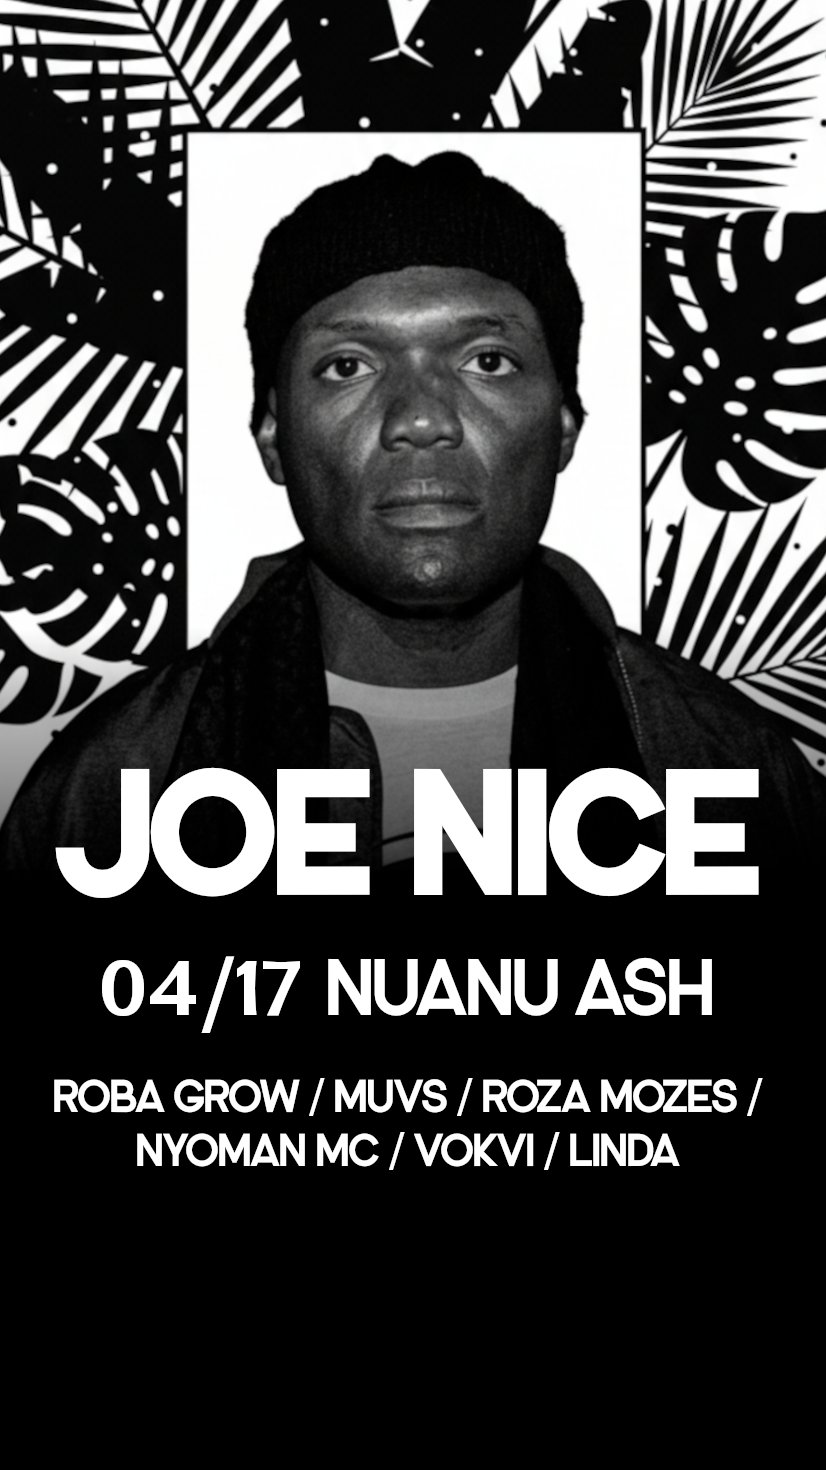
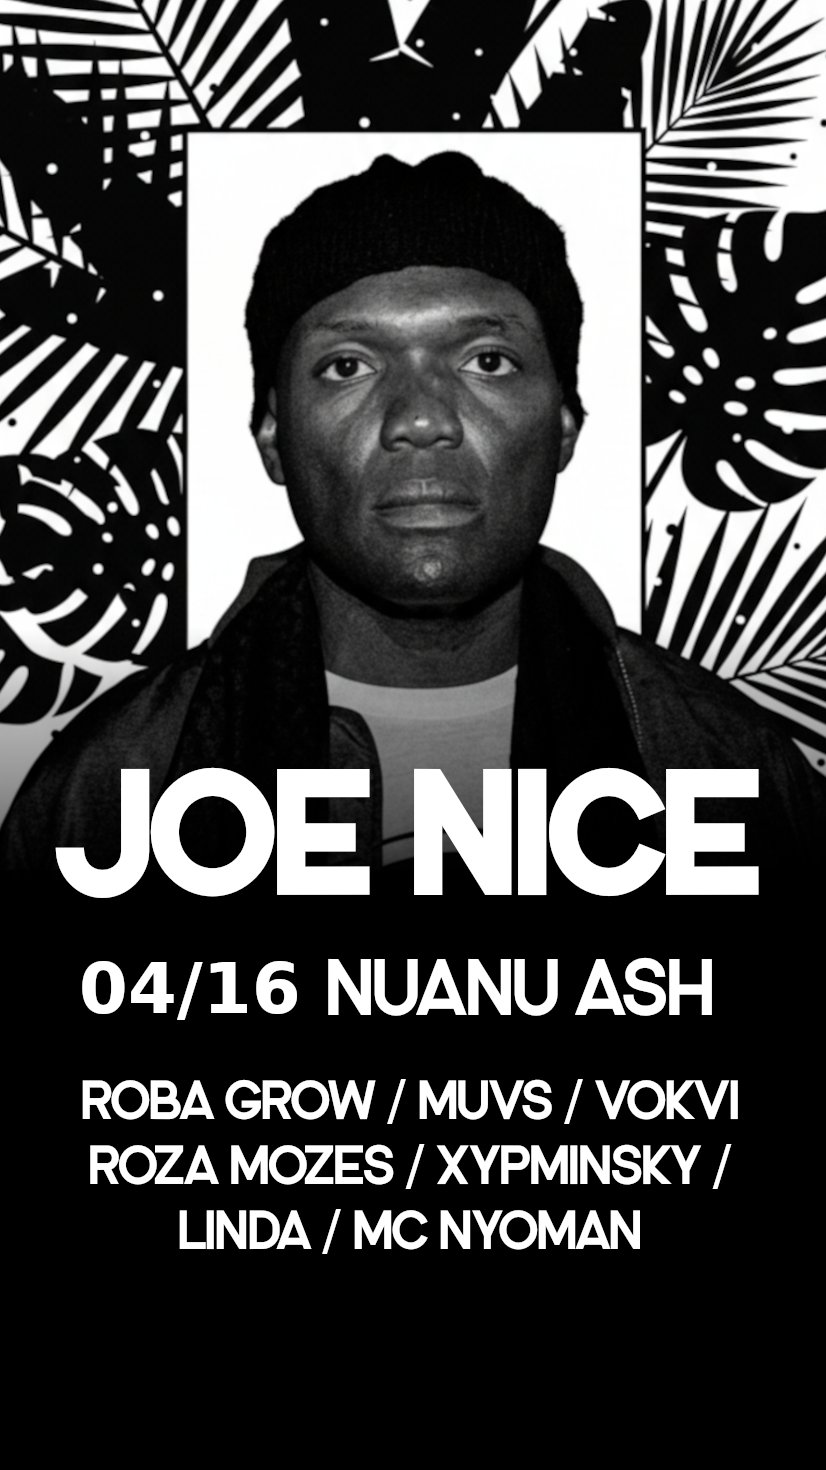
Update event to April 16, add Xypminsky, link Megatix tickets
- Date changed from April 17 to April 16
- Added Xypminsky to lineup
- Ticket links now point to megatix.co.id/events/basstatic-joe-nice
- Updated poster banner
- Updated all OG/meta tags and descriptions

Changed region(s): [[0.0605, 0.7347, 0.9383, 0.8571], [0.0908, 0.6429, 0.3632, 0.7041]]

diff --git a/index.html b/index.html
@@ -3,20 +3,20 @@
 <head>
   <meta charset="UTF-8">
   <meta name="viewport" content="width=device-width, initial-scale=1.0">
-  <title>BASSTATIC x JOE NICE — 17 April 2026, Nuanu Bali</title>
-  <meta name="description" content="BASSTATIC x JOE NICE — The Godfather of American Dubstep live in Bali. April 17, 2026 at Ash, Nuanu. Deep dubstep &amp; 140 with Joe Nice, Roba Grow, Muvs, Roza Mozes, Vokvi, Linda and MC Nyoman.">
+  <title>BASSTATIC x JOE NICE — 16 April 2026, Nuanu Bali</title>
+  <meta name="description" content="BASSTATIC x JOE NICE — The Godfather of American Dubstep live in Bali. April 17, 2026 at Ash, Nuanu. Deep dubstep &amp; 140 with Joe Nice, Roba Grow, Muvs, Roza Mozes, Vokvi, Xypminsky, Linda and MC Nyoman.">
 
   <!-- Open Graph -->
   <meta property="og:type" content="website">
-  <meta property="og:title" content="BASSTATIC x JOE NICE — 17 April 2026, Nuanu Bali">
-  <meta property="og:description" content="The Godfather of American Dubstep live in Bali. Deep dubstep & 140 with Joe Nice, Roba Grow, Muvs, Roza Mozes, Vokvi, Linda and MC Nyoman. April 17 at Ash, Nuanu.">
+  <meta property="og:title" content="BASSTATIC x JOE NICE — 16 April 2026, Nuanu Bali">
+  <meta property="og:description" content="The Godfather of American Dubstep live in Bali. Deep dubstep & 140 with Joe Nice, Roba Grow, Muvs, Roza Mozes, Vokvi, Xypminsky, Linda and MC Nyoman. April 17 at Ash, Nuanu.">
   <meta property="og:image" content="https://basstatic.net/media/events/4/poster.jpeg">
   <meta property="og:url" content="https://basstatic.net">
   <meta property="og:site_name" content="BASSTATIC">
 
   <!-- Twitter Card -->
   <meta name="twitter:card" content="summary_large_image">
-  <meta name="twitter:title" content="BASSTATIC x JOE NICE — 17 April 2026, Nuanu Bali">
+  <meta name="twitter:title" content="BASSTATIC x JOE NICE — 16 April 2026, Nuanu Bali">
   <meta name="twitter:description" content="The Godfather of American Dubstep live in Bali. Deep dubstep & 140 at Ash, Nuanu.">
   <meta name="twitter:image" content="https://basstatic.net/media/events/4/poster.jpeg">
 
@@ -63,7 +63,7 @@
       <img src="/media/events/4/poster.jpeg" alt="BASSTATIC x JOE NICE">
     </div>
     <div class="hero__content">
-      <a href="#tickets" class="btn btn--primary">Get Tickets</a>
+      <a href="https://megatix.co.id/events/basstatic-joe-nice" target="_blank" rel="noopener" class="btn btn--primary">Get Tickets</a>
     </div>
   </section>
 
@@ -71,7 +71,7 @@
   <section class="section" id="event-summary">
     <h1 class="section__title">BASSTATIC x JOE NICE</h1>
     <p class="section__text" style="max-width:640px;margin:0 auto;">
-      17 April 2026 &middot; Ash, Nuanu, Bali<br>
+      16 April 2026 &middot; Ash, Nuanu, Bali<br>
       6 PM till late
     </p>
     <p class="section__text" style="max-width:640px;margin:12px auto 0;">
@@ -118,7 +118,7 @@
 
     <div class="event-card event-card--featured">
       <div class="event-card__date">
-        <span class="event-card__day">17</span>
+        <span class="event-card__day">16</span>
         <span class="event-card__month">APR</span>
       </div>
       <div class="event-card__info">
@@ -126,7 +126,7 @@
         <p class="event-card__detail">Nuanu, Ash &middot; Bali</p>
         <p class="event-card__detail">From 6 PM till late</p>
         <p class="event-card__detail">Dubstep &middot; Deep Dubstep &middot; 140</p>
-        <a href="#tickets" class="btn btn--small" id="ticket-btn">Get Tickets</a>
+        <a href="https://megatix.co.id/events/basstatic-joe-nice" target="_blank" rel="noopener" class="btn btn--small" id="ticket-btn">Get Tickets</a>
       </div>
     </div>
   </section>

diff --git a/events/2/index.html b/events/2/index.html
@@ -60,7 +60,7 @@
 
     <div class="event-card event-card--featured">
       <div class="event-card__date">
-        <span class="event-card__day">17</span>
+        <span class="event-card__day">16</span>
         <span class="event-card__month">APR</span>
       </div>
       <div class="event-card__info">

diff --git a/events/3/index.html b/events/3/index.html
@@ -52,7 +52,7 @@
 
     <div class="event-card event-card--featured">
       <div class="event-card__date">
-        <span class="event-card__day">17</span>
+        <span class="event-card__day">16</span>
         <span class="event-card__month">APR</span>
       </div>
       <div class="event-card__info">
